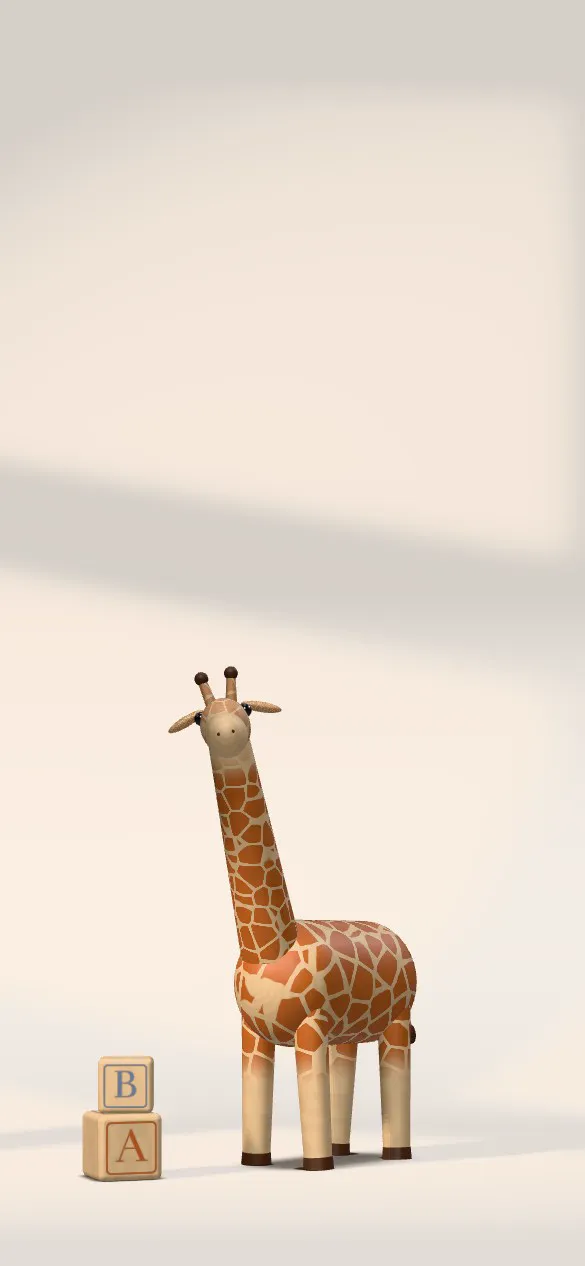
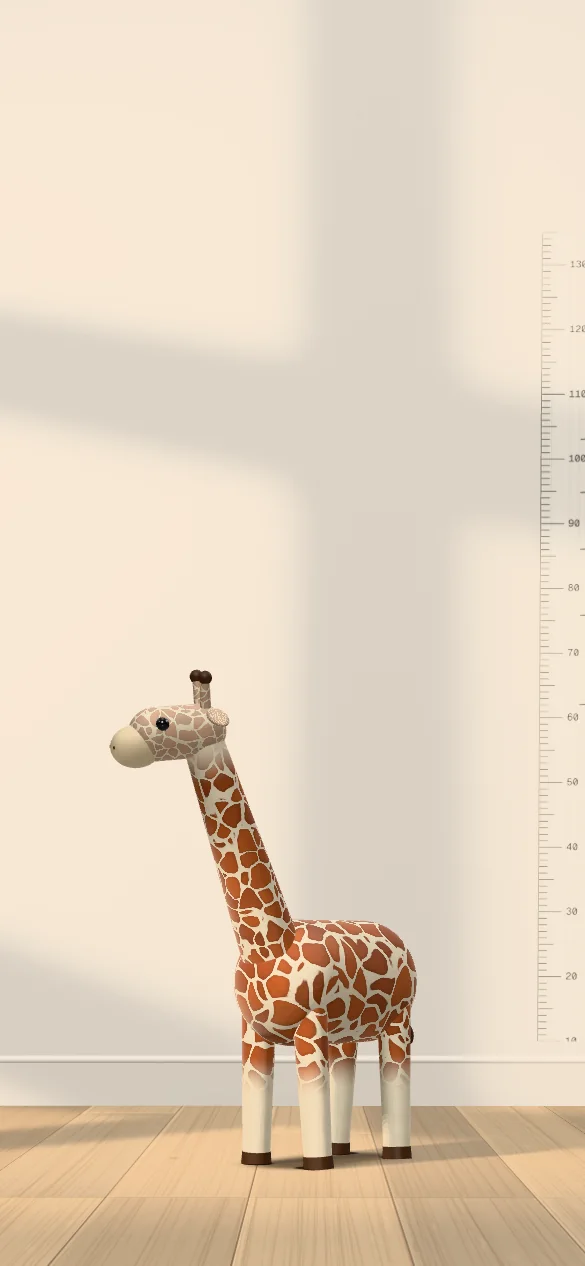
Hero: the toys now stand in a child's room
Painted wall and skirting, pale oak floor, a wooden growth chart with a
child's pencil marks beside the giraffe, and a framed crayon family drawing
above the rabbit. Hero posters re-rendered to match.

diff --git a/js/room.js b/js/room.js
@@ -1,0 +1,202 @@
+/* ==========================================================================
+   Sanrakshya — the child's room.
+
+   The toys stand in a real room, photographed the way a quiet nursery is: a
+   chalky painted wall, a painted skirting, pale oak boards, and one object on
+   the wall, a painted wooden growth chart with a child's pencil marks on it.
+   Nothing else. The window light does the rest.
+   ========================================================================== */
+import * as THREE from 'three';
+import { canvasTex } from './studio.js';
+
+let seed = 91;
+const rnd = () => ((seed = (seed * 16807) % 2147483647) / 2147483647);
+
+/* pale oak boards: 14 cm wide, staggered joints, fine grain and a little
+   variation from board to board, running away from the camera */
+function oakBoards() {
+  const W = 1024, H = 2048, BOARDS = 6;                       // the tile covers 6 boards x 2.4 m
+  const color = canvasTex(W, H, (g) => {
+    g.fillStyle = '#d6b890'; g.fillRect(0, 0, W, H);
+    const bw = W / BOARDS;
+    for (let b = 0; b < BOARDS; b++) {
+      const x0 = b * bw, joint = (0.2 + ((b * 0.37) % 0.6)) * H;
+      for (const [y0, y1] of [[0, joint], [joint, H]]) {
+        const tone = 0.9 + rnd() * 0.16, warm = rnd() * 10;
+        g.fillStyle = `rgb(${Math.round(214 * tone + warm)}, ${Math.round(184 * tone + warm * .5)}, ${Math.round(144 * tone)})`;
+        g.fillRect(x0, y0, bw, y1 - y0);
+        // grain: long, slightly wandering lines, darker in the late wood
+        for (let k = 0; k < 46; k++) {
+          const gx = x0 + rnd() * bw, amp = 1 + rnd() * 4, f = 0.002 + rnd() * 0.004, ph = rnd() * 6;
+          g.strokeStyle = `rgba(${120 + rnd() * 30}, ${80 + rnd() * 20}, 45, ${0.05 + rnd() * 0.12})`;
+          g.lineWidth = 0.6 + rnd() * 1.6;
+          g.beginPath();
+          for (let y = y0; y <= y1; y += 16) { const x = gx + Math.sin(y * f + ph) * amp; y === y0 ? g.moveTo(x, y) : g.lineTo(x, y); }
+          g.stroke();
+        }
+        // a knot, now and then
+        if (rnd() < 0.25) {
+          const kx = x0 + bw * (0.3 + rnd() * 0.4), ky = y0 + (y1 - y0) * (0.2 + rnd() * 0.6);
+          const gr = g.createRadialGradient(kx, ky, 0, kx, ky, 14);
+          gr.addColorStop(0, 'rgba(110, 70, 35, .35)'); gr.addColorStop(1, 'rgba(110, 70, 35, 0)');
+          g.fillStyle = gr; g.beginPath(); g.ellipse(kx, ky, 9, 22, 0, 0, Math.PI * 2); g.fill();
+        }
+        // the seam at the end of a board
+        g.fillStyle = 'rgba(90, 60, 30, .45)'; g.fillRect(x0, y1 - 1.5, bw, 3);
+      }
+      // the gap between boards
+      g.fillStyle = 'rgba(80, 52, 28, .55)'; g.fillRect(x0, 0, 2, H);
+      g.fillStyle = 'rgba(255, 244, 225, .18)'; g.fillRect(x0 + 2, 0, 1.5, H);
+    }
+  }, { repeat: true });
+  // roughness: the seams are rougher; the grain barely changes the sheen of an oiled floor
+  const rough = canvasTex(256, 512, (g, w, h) => {
+    g.fillStyle = 'rgb(150,150,150)'; g.fillRect(0, 0, w, h);
+    for (let b = 0; b < 6; b++) { g.fillStyle = 'rgb(235,235,235)'; g.fillRect(b * w / 6, 0, 2, h); }
+    for (let i = 0; i < 1600; i++) { const v = 130 + rnd() * 50; g.fillStyle = `rgb(${v},${v},${v})`; g.fillRect(rnd() * w, rnd() * h, 1, 3 + rnd() * 8); }
+  }, { srgb: false, repeat: true });
+  return { color, rough, size: [6 * 0.14, 2.4] };
+}
+
+/* chalky wall paint: very fine, soft variation, like a real rolled matt finish */
+function plaster() {
+  return canvasTex(512, 512, (g, w, h) => {
+    const img = g.createImageData(w, h);
+    for (let i = 0; i < w * h; i++) {
+      const n = (rnd() + rnd() + rnd()) / 3, v = 150 + (n - 0.5) * 40;
+      img.data[i * 4] = img.data[i * 4 + 1] = img.data[i * 4 + 2] = v; img.data[i * 4 + 3] = 255;
+    }
+    g.putImageData(img, 0, 0);
+  }, { srgb: false, repeat: true });
+}
+
+/* the growth chart: a painted wooden board, a ruler printed down one edge, and a
+   child's marks in pencil, each with an age and the family's own handwriting */
+function growthChartTexture() {
+  const W = 256, H = 2432;                                  // 0.13 m x 1.25 m, from 10 cm to 135 cm
+  const cmPx = H / 125, top = 135;
+  return canvasTex(W, H, (g) => {
+    const gr = g.createLinearGradient(0, 0, W, 0);
+    gr.addColorStop(0, '#f3ece0'); gr.addColorStop(1, '#efe6d7');
+    g.fillStyle = gr; g.fillRect(0, 0, W, H);
+    // a faint wood grain under the paint
+    for (let k = 0; k < 40; k++) {
+      g.strokeStyle = `rgba(150, 120, 80, ${0.03 + rnd() * 0.04})`; g.lineWidth = 1 + rnd() * 2;
+      const x = rnd() * W; g.beginPath(); g.moveTo(x, 0); g.bezierCurveTo(x + 8, H * .3, x - 8, H * .6, x + 4, H); g.stroke();
+    }
+    // the ruler: every centimetre, longer every five, numbered every ten
+    g.fillStyle = '#3d3a36';
+    g.font = '500 30px "Geist Mono", ui-monospace, monospace'; g.textAlign = 'left'; g.textBaseline = 'middle';
+    for (let cm = 10; cm <= top; cm++) {
+      const y = (top - cm) * cmPx, len = cm % 10 === 0 ? 70 : cm % 5 === 0 ? 46 : 26;
+      g.fillRect(0, y - 1.2, len, 2.4);
+      if (cm % 10 === 0 && cm < top) g.fillText(String(cm), 82, y);
+    }
+    // a small painted crown at the top: the chart belongs to someone
+    g.fillStyle = '#d4481e';
+    g.beginPath(); g.moveTo(150, 90); g.lineTo(165, 50); g.lineTo(185, 78); g.lineTo(205, 44); g.lineTo(225, 78); g.lineTo(240, 50); g.lineTo(240, 90); g.closePath(); g.fill();
+    // the child's marks, in pencil, with their ages, climbing over the years
+    const marks = [[62, '9 mo'], [76, '1½'], [86, '2'], [95, '3'], [103, '4']];
+    g.lineCap = 'round';
+    marks.forEach(([cm, age], i) => {
+      const y = (top - cm) * cmPx + (i % 2 ? 2 : -2);
+      g.strokeStyle = 'rgba(60, 58, 54, .75)'; g.lineWidth = 4;
+      g.beginPath(); g.moveTo(120, y + 1); g.lineTo(158, y - 1); g.lineTo(206, y + 2); g.lineTo(250, y); g.stroke();
+      g.fillStyle = 'rgba(60, 58, 54, .8)';
+      g.font = '400 44px "Reenie Beanie", "Caveat", cursive';
+      g.save(); g.translate(150, y - 26); g.rotate(-0.05 + (i % 3) * 0.03); g.fillText(age, 0, 0); g.restore();
+    });
+  });
+}
+
+/* a child's drawing, in crayon: the family under a big sun. Wax is laid as many short,
+   slightly wandering passes, then the paper's tooth is punched through it. */
+function drawingTexture() {
+  const W = 720, H = 560;
+  return canvasTex(W, H, (g) => {
+    g.fillStyle = '#fbf8f1'; g.fillRect(0, 0, W, H);
+    const crayon = (pts, color, width, passes = 3) => {
+      g.strokeStyle = color; g.lineCap = 'round'; g.lineJoin = 'round';
+      for (let p = 0; p < passes; p++) {
+        g.globalAlpha = 0.55 + rnd() * 0.3; g.lineWidth = width * (0.7 + rnd() * 0.5);
+        g.beginPath();
+        pts.forEach(([x, y], i) => { const jx = x + (rnd() - 0.5) * width * 0.6, jy = y + (rnd() - 0.5) * width * 0.6; i ? g.lineTo(jx, jy) : g.moveTo(jx, jy); });
+        g.stroke();
+      }
+      g.globalAlpha = 1;
+    };
+    const circle = (cx, cy, r, n = 26) => Array.from({ length: n + 3 }, (_, i) => { const a = i / n * Math.PI * 2; return [cx + Math.cos(a) * r * (1 + (rnd() - 0.5) * 0.08), cy + Math.sin(a) * r * (1 + (rnd() - 0.5) * 0.08)]; });
+    // the sun, with its rays, in the corner where every child puts it
+    crayon(circle(590, 110, 52), '#e8a91f', 14, 4);
+    for (let k = 0; k < 9; k++) { const a = k / 9 * Math.PI * 2 + 0.2; crayon([[590 + Math.cos(a) * 72, 110 + Math.sin(a) * 72], [590 + Math.cos(a) * 108, 110 + Math.sin(a) * 108]], '#e8a91f', 10, 2); }
+    // the grass
+    const grass = []; for (let x = 20; x <= 700; x += 24) grass.push([x, 470 + Math.sin(x * 0.05) * 6]);
+    crayon(grass, '#3f9a55', 18, 4);
+    // three people: tall, tall, and small, holding hands
+    const person = (x, h, color) => {
+      const top = 468 - h, hr = h * 0.13;
+      crayon(circle(x, top + hr, hr, 18), color, 9, 3);
+      crayon([[x, top + hr * 2], [x, top + h * 0.62]], color, 9, 2);
+      crayon([[x - h * 0.16, 468], [x, top + h * 0.62], [x + h * 0.16, 468]], color, 9, 2);
+      crayon([[x - h * 0.2, top + h * 0.5], [x, top + h * 0.36], [x + h * 0.2, top + h * 0.5]], color, 9, 2);
+      return [x, top + h * 0.5, h];
+    };
+    const a = person(180, 250, '#2c6be0'), b = person(330, 230, '#d4481e'), c = person(455, 140, '#8a6bb8');
+    crayon([[a[0] + a[2] * 0.2, a[1]], [b[0] - b[2] * 0.2, b[1]]], '#555', 6, 1);
+    crayon([[b[0] + b[2] * 0.2, b[1]], [c[0] - c[2] * 0.2, c[1] + 10]], '#555', 6, 1);
+    // a heart, over the small one
+    crayon([[455, 300], [438, 282], [440, 266], [455, 272], [470, 266], [472, 282], [455, 300]], '#e0506e', 8, 3);
+    // the paper's tooth: tiny gaps where the wax skipped
+    g.globalCompositeOperation = 'destination-out';
+    for (let i = 0; i < 9000; i++) { g.fillStyle = `rgba(0,0,0,${0.25 + rnd() * 0.5})`; g.fillRect(rnd() * W, rnd() * H, 1 + rnd() * 1.5, 1); }
+    g.globalCompositeOperation = 'destination-over'; g.fillStyle = '#fbf8f1'; g.fillRect(0, 0, W, H);
+  });
+}
+
+export function nursery({ span = [-3, 6], wallZ = -1.3, chartX = 0.66, drawingX = 1.8 } = {}) {
+  const room = new THREE.Group();
+  const L = span[1] - span[0], cx = (span[0] + span[1]) / 2;
+
+  // the floor
+  const oak = oakBoards();
+  const floorGeo = new THREE.PlaneGeometry(L, 6); floorGeo.rotateX(-Math.PI / 2);
+  const floorMat = new THREE.MeshStandardMaterial({ map: oak.color, roughnessMap: oak.rough, roughness: 0.62, metalness: 0 });
+  for (const t of [oak.color, oak.rough]) t.repeat.set(L / oak.size[0], 6 / oak.size[1]);
+  const floor = new THREE.Mesh(floorGeo, floorMat); floor.position.set(cx, 0, wallZ + 3); floor.receiveShadow = true; room.add(floor);
+
+  // the wall
+  const paintBump = plaster(); paintBump.repeat.set(L * 1.4, 4 * 1.4);
+  const wallMat = new THREE.MeshStandardMaterial({ color: 0xece3d6, roughness: 0.93, roughnessMap: paintBump, bumpMap: paintBump, bumpScale: 0.35 });
+  const wall = new THREE.Mesh(new THREE.PlaneGeometry(L, 4), wallMat); wall.position.set(cx, 2, wallZ); wall.receiveShadow = true; room.add(wall);
+
+  // the skirting: painted timber, a rounded top edge catching the light
+  const paint = new THREE.MeshStandardMaterial({ color: 0xe6ddd0, roughness: 0.5 });
+  const board = new THREE.Mesh(new THREE.BoxGeometry(L, 0.07, 0.014), paint); board.position.set(cx, 0.035, wallZ + 0.007);
+  const lip = new THREE.Mesh(new THREE.CylinderGeometry(0.008, 0.008, L, 12), paint); lip.rotation.z = Math.PI / 2; lip.position.set(cx, 0.07, wallZ + 0.007);
+  for (const m of [board, lip]) { m.castShadow = true; m.receiveShadow = true; room.add(m); }
+
+  // the growth chart, hung beside the giraffe; its lower edge is 10 cm off the floor
+  const chartTex = growthChartTexture();
+  const chartFace = new THREE.MeshStandardMaterial({ map: chartTex, roughness: 0.6 });
+  const chartEdge = new THREE.MeshStandardMaterial({ color: 0xe9dfcf, roughness: 0.6 });
+  const chart = new THREE.Mesh(new THREE.BoxGeometry(0.13, 1.25, 0.014),
+    [chartEdge, chartEdge, chartEdge, chartEdge, chartFace, chartEdge]);
+  chart.position.set(chartX, 0.1 + 0.625, wallZ + 0.007 + 0.002); chart.rotation.z = -0.006;
+  chart.castShadow = true; chart.receiveShadow = true; room.add(chart);
+  // the child's drawing, in a pale oak frame with a white mount, beside the rabbit
+  const oakFrame = new THREE.MeshStandardMaterial({ color: 0xcaa57a, roughness: 0.55 });
+  const frame = new THREE.Group(); frame.position.set(drawingX, 0.4, wallZ + 0.012); frame.rotation.z = 0.012; frame.scale.setScalar(0.82); room.add(frame);
+  const FW = 0.34, FH = 0.28, FB = 0.018, FD = 0.022;
+  for (const [w, h, x, y] of [[FW, FB, 0, (FH - FB) / 2], [FW, FB, 0, -(FH - FB) / 2], [FB, FH - FB * 2, (FW - FB) / 2, 0], [FB, FH - FB * 2, -(FW - FB) / 2, 0]]) {
+    const m = new THREE.Mesh(new THREE.BoxGeometry(w, h, FD), oakFrame); m.position.set(x, y, 0); m.castShadow = m.receiveShadow = true; frame.add(m);
+  }
+  const mount = new THREE.Mesh(new THREE.PlaneGeometry(FW - FB * 2, FH - FB * 2), new THREE.MeshStandardMaterial({ color: 0xf6f2ea, roughness: 0.85 }));
+  mount.position.z = -0.004; mount.receiveShadow = true; frame.add(mount);
+  const art = new THREE.Mesh(new THREE.PlaneGeometry(0.22, 0.171), new THREE.MeshStandardMaterial({ map: drawingTexture(), roughness: 0.9 }));
+  art.position.z = -0.003; art.receiveShadow = true; frame.add(art);
+
+  // the handwriting font may arrive after the room is built: redraw the marks once it has
+  document.fonts?.ready.then(() => { const t = growthChartTexture(); chartFace.map = t; chartTex.dispose(); });
+
+  return room;
+}

diff --git a/js/giraffe-scene.js b/js/giraffe-scene.js
@@ -16,6 +16,7 @@ import {
   cyclorama, windowLight, createLens, applyShift, createLoop, warmUp,
 } from './studio.js';
 import { buildRabbit, buildOwl } from './toys.js';
+import { nursery } from './room.js';
 
 const TAU = Math.PI * 2;
 
@@ -222,7 +223,7 @@ export function initGiraffe({ stage, canvas, annot, hint, words, growButton, onT
   const renderer = makeRenderer(canvas, { hi, still });
   const scene = new THREE.Scene();
   studioEnvironment(renderer, scene, 0.55);
-  scene.add(cyclorama({ cz: -0.55, R: 0.9 }));
+  scene.add(nursery({ wallZ: -0.85, chartX: 0.42 }));    // the toys stand in a child's room
   const key = windowLight(scene, { hi, intensity: 42, position: [-2.2, 2.1, 1.7], target: [0.35, 0.35, -1.1], angle: 0.42 });
   key.shadow.camera.near = 1; key.shadow.camera.far = 6;
   const lens = createLens(renderer, hi && params.get('post') !== '0');
